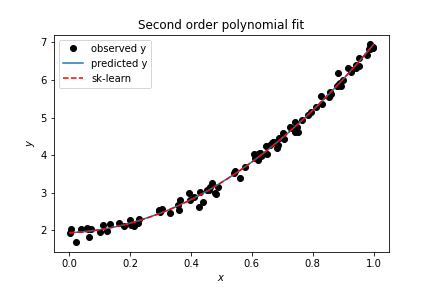
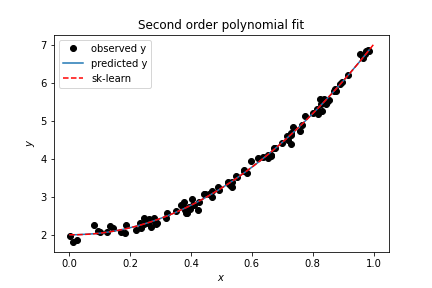
Added finished code and figures

diff --git a/week_35_exercise_3.py b/week_35_exercise_3.py
@@ -1,9 +1,108 @@
-# -*- coding: utf-8 -*-
 """
-Created on Wed Aug 28 13:48:55 2024
-
-@author: rawis
+Exercise 3, week 35. I used the code in the lecture notes as help.
 """
 import numpy as np
 import matplotlib.pyplot as plt
+from sklearn.linear_model import LinearRegression
+from sklearn.model_selection import train_test_split
+from sklearn.metrics import mean_squared_error
+
+# Functions
+def get_design_matrix(x, pol_deg):
+    """Creates a design matrix for fitting polynomials of degree pol_deg"""
+    X = np.ones((len(x), pol_deg+1))
+    for p in range(0, pol_deg+1):
+        X[:,p] = x.flatten()**p
+    return X
+
+def get_MSE(y, y_pred):
+    mean_SE = np.sum((y-y_pred)**2)/len(y)
+    return mean_SE
+
+def get_R2(y_true, y_pred):
+    y_mean = np.mean(y_true)
+    R2 = 1-(np.sum((y_true-y_pred)**2)/(np.sum((y_true-y_mean)**2)))
+    return R2
+
+np.random.seed()
+n = 100
+# Make data set:
+x = np.linspace(-3, 3, n).reshape(-1, 1)
+y = np.exp(-x**2) + 1.5 * np.exp(-(x-2)**2)+ np.random.normal(0, 0.1, x.shape)
+# Plot data:
+plt.plot(x, y, 'ko')
+plt.xlabel(r'$x$')
+plt.ylabel(r'$y$')
+plt.title(r'Data for exercise 3')
+plt.savefig('exercise_3_data.png')
+
+# set up a design matrix defined by a fifth-order polynomial:
+X = get_design_matrix(x, 5)
+
+# split data set in training and test data:
+X_train, X_test, y_train, y_test = train_test_split(X, y, test_size=0.2)
+
+# matrix inversion to find beta:
+beta = np.linalg.inv(X_train.T @ X_train) @ X_train.T @ y_train
+# make prediction:
+y_pred = X_train @ beta
+
+
+MSE_train_list = []
+MSE_test_list = []
+p_list = []
+#up to polynomial degree 15: 
+for i in range(1,15+1):
+    p = i #polynomial degree
+    # set up a design matrix:
+    X = get_design_matrix(x, p)
+    # split data set in training and test data:
+    X_train, X_test, y_train, y_test = train_test_split(X, y, test_size=0.2)
+    # matrix inversion to find beta:
+    beta = np.linalg.inv(X_train.T @ X_train) @ X_train.T @ y_train
+    # make prediction:
+    y_pred = X_train @ beta
+    MSE_train = mean_squared_error(y_train, y_pred)#get_MSE(y_train, y_pred)
+    #test model:
+    y_pred = X_test @ beta 
+    MSE_test = mean_squared_error(y_test, y_pred)#get_MSE(y_test, y_pred)
+    #append lists for plotting
+    MSE_train_list.append(MSE_train)
+    MSE_test_list.append(MSE_test)
+    p_list.append(p)
+
+    plt.title('Polynomial fits of degree p')
+    y_plot = X @ beta
+    plt.plot(X[:,1], y_plot, '--',label=f'p = {p}')
+    plt.legend()
+    
+# For which polynomial degree do you find an optimal MSE:
+i_min = np.argmin(np.array(MSE_test_list))
+p_min = p_list[i_min]
+print(f'Smallest MSE in test data for polynomial degree {p_min}')
+
+
+plt.savefig('exercise_3_polyfits.png')
+#plot: 
+plt.figure()
+plt.plot(p_list, MSE_train_list, label='train')
+plt.plot(p_list, MSE_test_list, label='test')
+plt.xlabel('polynomial degree')
+plt.ylabel('MSE')
+plt.legend()
+plt.savefig('MSE_p.png')
+    
+    
+    
+    
+    
+    
+    
+    
+
+
+
+
+
+
 

diff --git a/week_35_exercise_2.py b/week_35_exercise_2.py
@@ -7,8 +7,10 @@ import matplotlib.pyplot as plt
 from sklearn.linear_model import LinearRegression
 from sklearn.metrics import mean_squared_error
 
+noise_coeff = 0.1 #0.5, 1 
+
 x = np.random.rand(100, 1)
-y = 2.0+5*x*x+0.1*np.random.randn(100,1)
+y = 2.0+5*x*x+noise_coeff*np.random.randn(100,1)
 
 #Write your own code (following the examples under the regression notes) 
 #for computing the parametrization of the data set 
@@ -73,7 +75,6 @@ print(f'R^2 = {linreg_R_sq}')
 
 # Generate new x values to plot the sk-learn model
 x_new = np.linspace(0, 1, len(x))
-
 X_new = get_design_matrix(x_new, p)
 
 y_pred_skl = linreg.predict(X_new)
@@ -82,7 +83,7 @@ plt.xlabel(r'$x$')
 plt.ylabel(r'$y$')
 plt.title(r'Second order polynomial fit')
 plt.legend()
-plt.savefig('exercise_2.png')
+plt.savefig(f'exercise_2_{noise_coeff}.png')
 
 
 
